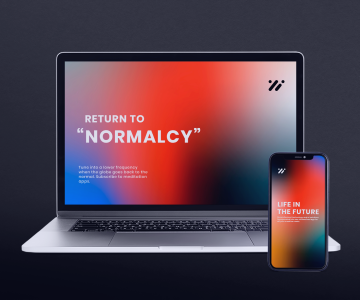
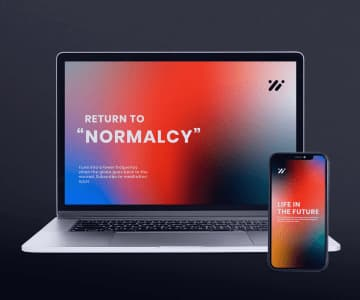
fix the code in the Index.html and style.css files, optimized all images with squoosh

diff --git a/index.html b/index.html
@@ -15,8 +15,8 @@
 <body>
     <header>
         <nav>
+            <a href="./index.html" class="logo">Web<span class="logo-header">Studio</span></a>
             <ul class="page-nav">
-                <a href="./index.html" class="logo">Web<span class="logo-name">Studio</span></a>
                 <li><a href="" class="link">Studio</a></li>
                 <li><a href="" class="link">Portfolio</a></li>
                 <li><a href="" class="link">Contacts</a></li>
@@ -30,112 +30,116 @@
         </address>
     </header>
     <main>
+        <!-- SECTION-1 -->
         <section class="section-first">
             <h1 class="page-title">Effective Solutions
                 for Your Business</h1>
             <button type="button" class="button">Order Service</button>
         </section>
+        <!-- SECTION-2 -->
         <section>
-            <h2 class="header2">Our services</h2>
+            <h2 class="secondary-title">Our services</h2>
             <ul>
                 <li>
-                    <h3 class="header3">Strategy</h3>
-                    <p class="text-section">
+                    <h3 class="third-title">Strategy</h3>
+                    <p class="text-p">
                         Our goal is to identify the business
                         problem to walk away with the perfect and creative solution.
                     </p>
                 </li>
                 <li>
-                    <h3 class="header3">Punctuality</h3>
-                    <p class="text-section">
+                    <h3 class="third-title">Punctuality</h3>
+                    <p class="text-p">
                         Bring the key message to the brand's audience for the best price within the shortest possible
                         time.
                     </p>
                 </li>
                 <li>
-                    <h3 class="header3">Diligence</h3>
-                    <p class="text-section">
+                    <h3 class="third-title">Diligence</h3>
+                    <p class="text-p">
                         Research and confirm brands that present the strongest digital growth opportunities and minimize
                         risk.
                     </p>
                 </li>
                 <li>
-                    <h3 class="header3">Technologies</h3>
-                    <p class="text-section">
+                    <h3 class="third-title">Technologies</h3>
+                    <p class="text-p">
                         Design practice focused on digital experiences. We bring forth a deep passion for
                         problem-solving.
                     </p>
                 </li>
             </ul>
         </section>
-        <section class="section3">
-            <h2 class="header2">Our Team</h2>
+        <!-- SECTION-3 -->
+        <section class="section-third">
+            <h2 class="secondary-title">Our Team</h2>
             <ul>
                 <li>
                     <img src="./images/markguerrero.jpg" alt="Mark Guerrero Product Designer" width="264" height="260">
-                    <h3 class="header3">Mark Guerrero</h3>
-                    <p class="text-section">Product Designer</p>
+                    <h3 class="third-title">Mark Guerrero</h3>
+                    <p class="text-p">Product Designer</p>
                 </li>
                 <li>
                     <img src="./images/tomford.jpg" alt="Tom Ford Frontend Developer" width="264" height="260">
-                    <h3 class="header3">Tom Ford</h3>
-                    <p class="text-section">Frontend Developer</p>
+                    <h3 class="third-title">Tom Ford</h3>
+                    <p class="text-p">Frontend Developer</p>
                 </li>
                 <li>
                     <img src="./images/camilagarcia.jpg" alt="Camila Garcia Marketing" width="264" height="260">
-                    <h3 class="header3">Camila Garcia</h3>
-                    <p class="text-section">Marketing</p>
+                    <h3 class="third-title">Camila Garcia</h3>
+                    <p class="text-p">Marketing</p>
                 </li>
                 <li>
                     <img src="./images/wanielwilson.jpg" alt="Daniel Wilson UI Designer" width="264" height="260">
-                    <h3 class="header3">Daniel Wilson</h3>
-                    <p class="text-section">UI Designer</p>
+                    <h3 class="third-title">Daniel Wilson</h3>
+                    <p class="text-p">UI Designer</p>
                 </li>
             </ul>
         </section>
+        <!-- SECTION-4 -->
         <section>
-            <h2 class="header2">Our Portfolio</h2>
+            <h2 class="secondary-title">Our Portfolio</h2>
             <ul>
                 <li>
                     <img src="./images/projeccard1.jpg" alt="banking application menu" width="360" height="300">
-                    <h3 class="header3">Banking App</h3>
-                    <p class="text-section">
+                    <h3 class="third-title">Banking App</h3>
+                    <p class="text-p">
                         App
                     </p>
                 </li>
                 <li>
                     <img src="./images/projeccard2.jpg" alt="payment by phone" width="360" height="300">
-                    <h3 class="header3">Cashless Payment</h3>
-                    <p class="text-section">
+                    <h3 class="third-title">Cashless Payment</h3>
+                    <p class="text-p">
                         Marketing
                     </p>
                 </li>
                 <li>
                     <img src="./images/projeccard3.jpg" alt="laptop and phone" width="360" height="300">
-                    <h3 class="header3">Meditation App</h3>
-                    <p class="text-section">
+                    <h3 class="third-title">Meditation App</h3>
+                    <p class="text-p">
                         App
                     </p>
                 </li>
                 <li>
                     <img src="./images/projeccard4.jpg" alt="car interior" width="360" height="300">
-                    <h3 class="header3">Taxi Service</h3>
-                    <p class="text-section">
+                    <h3 class="third-title">Taxi Service</h3>
+                    <p class="text-p">
                         Marketing
                     </p>
                 </li>
                 <li>
                     <img src="./images/projeccard5.jpg" alt="mobile phone and desktop wallpapers" width="360"
                         height="300">
-                    <h3 class="header3">Screen Illustrations</h3>
-                    <p class="text-section">
+                    <h3 class="third-title">Screen Illustrations</h3>
+                    <p class="text-p">
                         Design
                     </p>
                 </li>
                 <li>
                     <img src="./images/projeccard6.jpg" alt="Girl in a yellow sweater" width="360" height="300">
-                    <h3 class="header3">Online Courses</h3>
-                    <p class="text-section">
+                    <h3 class="third-title">Online Courses</h3>
+                    <p class="text-p">
                         Marketing
                     </p>
                 </li>
@@ -143,8 +147,8 @@
 
         </section>
     </main>
-    <footer>
-        <a href="./index.html">WebStudio</a>
+    <footer class="footer">
+        <a href="./index.html" class="logo">Web<span class="logo-footer">Studio</span></a>
         <p class="text-footer">Increase the flow of customers and sales for your business with digital marketing &
             growth solutions.
         </p>

diff --git a/css/style.css b/css/style.css
@@ -20,11 +20,15 @@ ol {
    text-transform: uppercase;
    color: #4d5ae5;
 }
-.logo .logo-name {
+.logo .logo-header {
    color: #2e2f42;
+}
+.logo .logo-footer {
+   color: #f4f4fd;
 }
 .page-nav .link {
    font-weight: 500;
+   font-size: 16px;
    line-height: 1.5;
    letter-spacing: 0.02em;
    color: #2E2F42;
@@ -70,35 +74,39 @@ ol {
 .section-first {
    background-color: #2E2F42;
 }
-.header2 {
+.secondary-title {
    font-size: 36px;
-   line-height: 40px;
-   font-weight: 700;
+   line-height: 1.11;
+   font-weight: 500;
+   letter-spacing: 0.02em;
+   text-transform: capitalize;
    text-align: center;
+   color :#2e2f42;
 }
-.section3 {
+.section-third {
    background-color: #f4f4fd;
 }
-.header3 {
+.third-title {
    font-size: 20px;
-   line-height: 24px;
+   line-height: 1.2;
    font-weight: 500;
-   letter-spacing: 2%;
+   letter-spacing: 0.02em;
+   color: #2e2f42;
 }
-.text-section {
+.text-p {
    font-size: 16px;
-   line-height: 24px;
+   line-height: 1.5;
    font-weight: 400;
    color: #434455;
-   letter-spacing: 2%;
+   letter-spacing: 0.02em;
 }
-footer {
+.footer {
    background-color: #2E2F42;
 }
 .text-footer {
    font-size: 16px;
-   line-height: 24px;
+   line-height: 1.5;
    font-weight: 400;
    color: #F4F4FD;
-   letter-spacing: 2%;
+   letter-spacing: 0.02em;
 }
